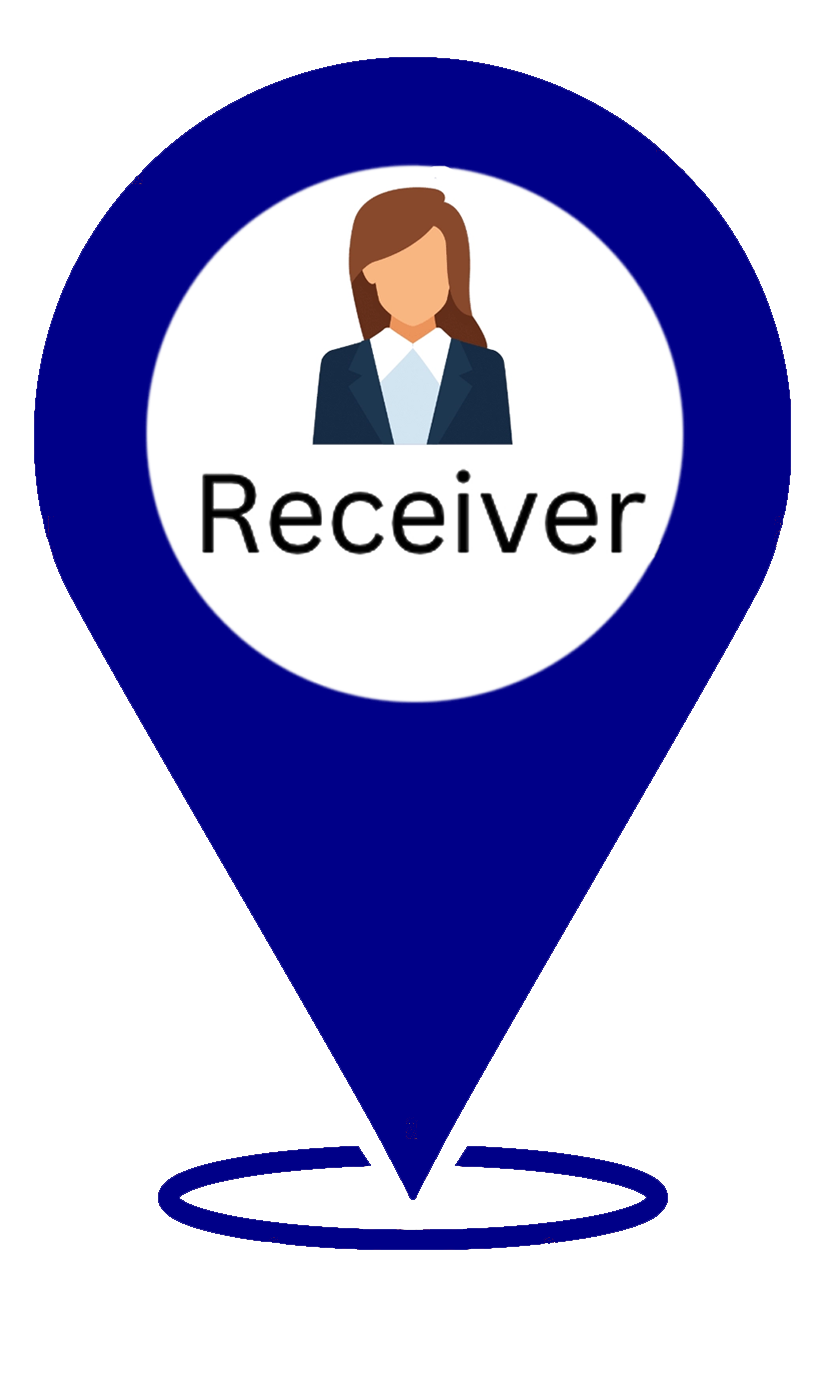
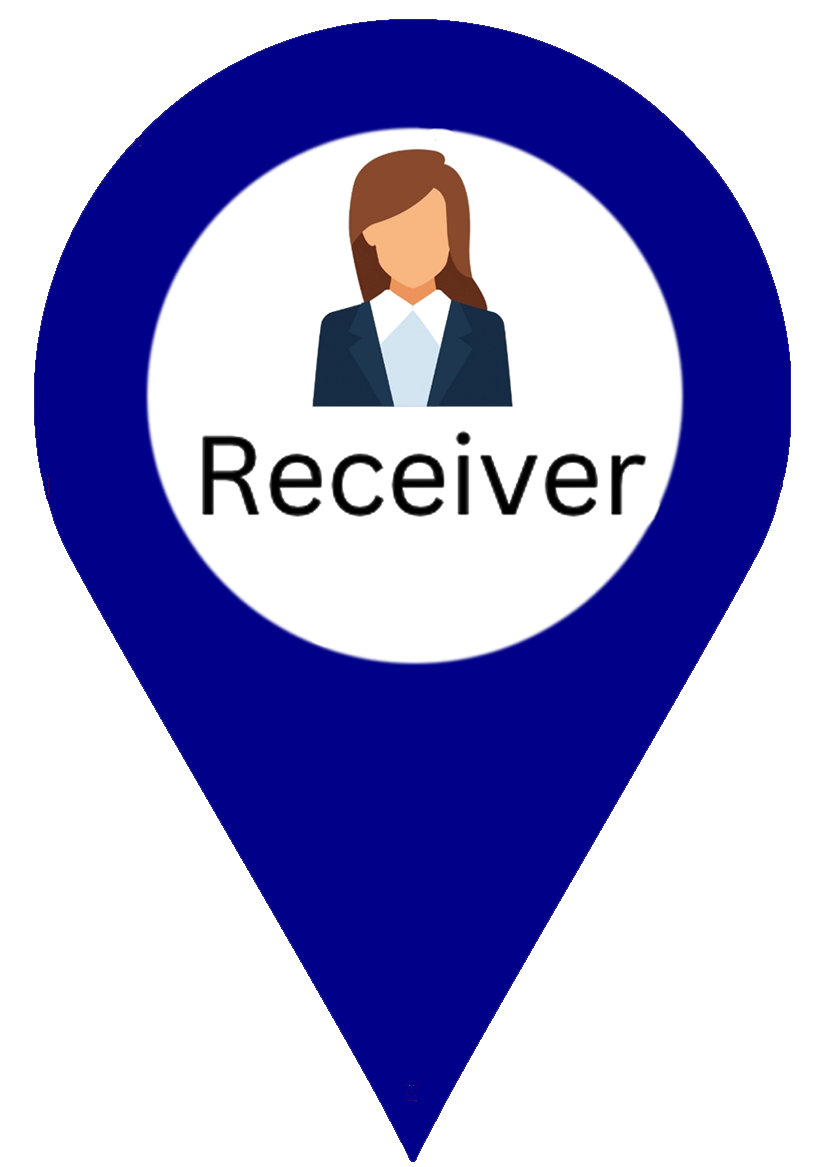
small fix

diff --git a/client/src/components/map/page.js b/client/src/components/map/page.js
@@ -129,7 +129,7 @@ const Map=()=> {
           draggable={true}
           icon={{
             url: "/sender.png",
-            scaledSize: {width:100, height:150}
+            scaledSize: {width:70, height:100}
           }}
           position={{
             lat: 27.700769,
@@ -142,7 +142,7 @@ const Map=()=> {
           draggable={true}
           icon={{
             url: "/receiver.png",
-            scaledSize: {width:100, height:150}
+            scaledSize: {width:70, height:100}
           }}
           onDragEnd	= {dragReceiver}
           position={receiverCoords}
